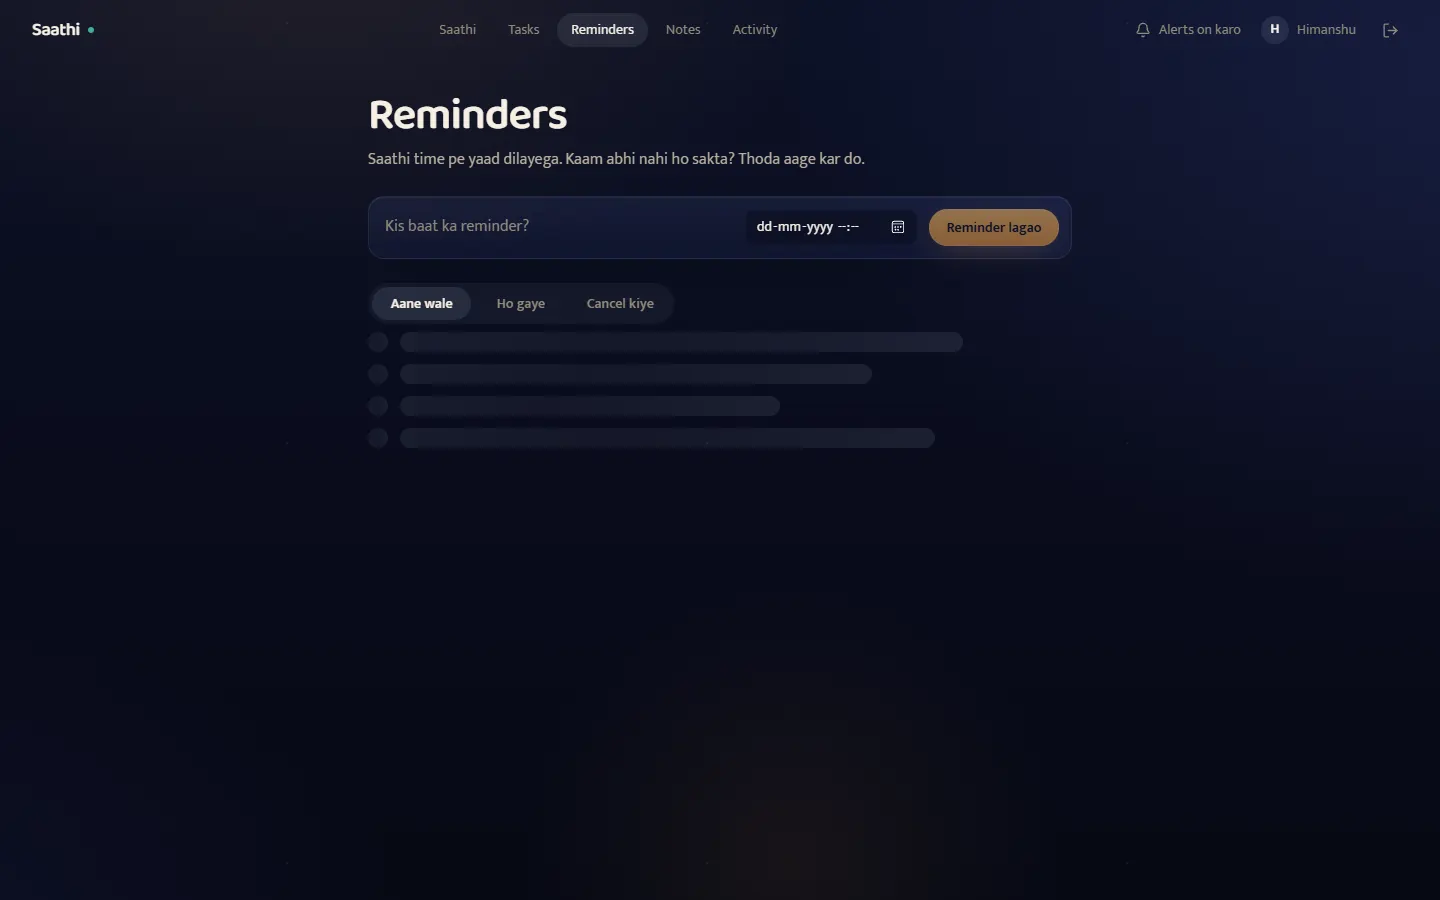
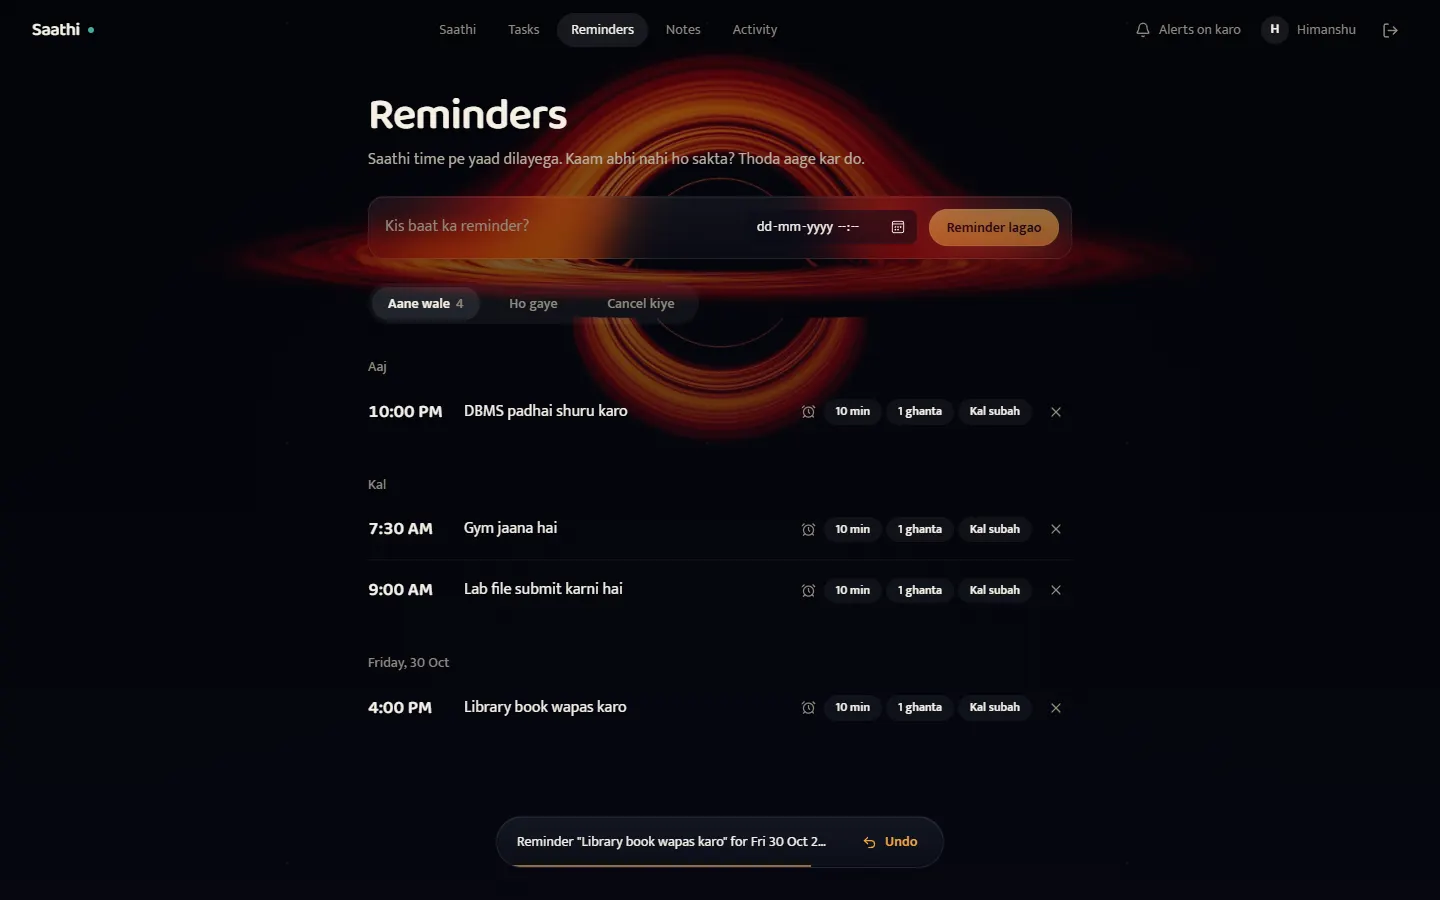
Reminders: NASA's black hole visualization as the background
- NASA Goddard / Jeremy Schnittman's 2019 accretion disk visualization
  (SVS 13326): the unlabelled 3840 px frame of the edge-on view, with
  the dark shadow, the bright ring in front and the disk's far side bent
  above and below by gravity (the Gargantua look, from a real physics
  simulation, nothing from the film)
- Placed high on a black canvas so the ring sits behind the title and the
  form while the list stays on black; centre crop for phones; WebP 52 KB
  desktop, 57 KB phone; lighter veil so it stays visible
- Credit in CREDITS.md, Settings and the README; noted that using NASA
  material does not mean NASA endorses the app
- 123 tests pass

diff --git a/client/src/app/AppShell.jsx b/client/src/app/AppShell.jsx
@@ -29,9 +29,10 @@ export const SCREENS = [
 ];
 const ALL = [...SCREENS.map((s) => s.id), 'settings'];
 
-// The space photo behind each screen (lib/photos.js has the credits). Reminders keeps the plain
-// night sky on purpose (Himanshu has another idea for it).
-const BACKDROPS = { home: 'westerlund2', tasks: 'antennae', notes: 'am0500', activity: 'andromeda', settings: 'carina' };
+// The space photo behind each screen (lib/photos.js has the credits). Reminders gets the black hole:
+// it is mostly black, so it sits under the lighter veil and stays visible above the list.
+const BACKDROPS = { home: 'westerlund2', tasks: 'antennae', reminders: 'blackhole', notes: 'am0500', activity: 'andromeda', settings: 'carina' };
+const SOFT_VEIL = ['notes', 'reminders'];
 
 const screenFromHash = () => {
   const id = location.hash.replace(/^#\/?/, '');
@@ -86,7 +87,7 @@ export function AppShell({ user: initialUser, onLogout }) {
               animate={{ opacity: 1, transition: { duration: 0.9 } }}
               exit={{ opacity: 0, transition: { duration: 0.6 } }}
             >
-              <SpaceBackdrop photo={BACKDROPS[screen]} className="absolute" strength={screen === 'notes' ? 'soft' : 'strong'} />
+              <SpaceBackdrop photo={BACKDROPS[screen]} className="absolute" strength={SOFT_VEIL.includes(screen) ? 'soft' : 'strong'} />
             </motion.div>
           </AnimatePresence>
           <CursorGlow />

diff --git a/client/src/lib/photos.js b/client/src/lib/photos.js
@@ -33,6 +33,13 @@ export const PHOTOS = {
     usedFor: 'Tasks',
     match: 'exact',
   },
+  blackhole: {
+    title: 'Black hole accretion disk visualization (2019, frame 1 of the 360 orbit, placed on a wider black background)',
+    credit: "NASA's Goddard Space Flight Center / Jeremy Schnittman",
+    source: 'https://svs.gsfc.nasa.gov/13326',
+    usedFor: 'Reminders',
+    match: 'exact',
+  },
   am0500: {
     title: 'AM 0500-620',
     credit: 'NASA, ESA, the Hubble Heritage Team (STScI/AURA)-ESA/Hubble Collaboration and W. Keel (University of Alabama, Tuscaloosa)',

diff --git a/CLAUDE.md b/CLAUDE.md
@@ -42,7 +42,7 @@ Everything below is committed and pushed to GitHub (private repo `harisharma8118
 - **Auth:** `AuthScreen.jsx` (login/signup, eye toggle in password fields, "Password bhool gaye?" link, shared `AuthShell` and `Field`) and `PasswordScreens.jsx` (forgot and reset screens). Routing by hash: `#login`, `#signup`, `#forgot`, `#reset=<token>`. Blur/scale page transitions with `transitionEnd: { filter: 'none' }` (a leftover filter breaks backdrop blur).
 - **Home:** the 3D face (`Face3D.jsx`, React Three Fiber: glowing gold orb shader, breathing, blinking, eyes follow the cursor, expressions and mood colours; `HeroFace.jsx` shows the 2D SVG face `Face.jsx` while loading, on errors, without WebGL or with reduced motion), cursor glow, chat with streaming, receipts with Undo, Confirm/Cancel, typing hints; the glass Today panel with quick add, countdowns, pending, habits with streaks, reminders and the day plan; toasts with snooze; live updates; a phone layout with Chat / Aaj tabs. Only one 3D canvas is on screen at a time.
 - **App shell and screens (21 Oct):** `src/app/AppShell.jsx` wraps every logged-in screen: top nav on desktop, a 5-tab bottom bar on phones (Saathi, Tasks, Reminders, Notes, Activity; Settings via the avatar button), screens picked by `#/tasks`, `#/notes`, `#/reminders`, `#/activity`, `#/settings` (Home = no hash). The shell owns the ONE live-updates stream; screens refresh with `useLiveRefresh(load)` from `src/app/live.js` (debounced; `{ on: 'notify' }` for nudges/recaps). Notification toasts and the 10-second **Undo bar** (`components/UndoToast.jsx`, shown for your own changes from the `changed` events; Saathi's changes keep their receipts in chat) are global. Shared parts in `components/ScreenParts.jsx` (ScreenFrame, Tabs, EmptyState with the face, ErrorState, ListSkeleton, GroupTitle). Screens: `TasksScreen` (quick add, search, Open grouped Pending/Aaj/Kal/Is hafte/Baad mein/Bina date, tap a title to edit or delete, Completed grouped by day with `ProgressChart.jsx`: 14-day columns in `#21A895`, validated with the dataviz skill's palette checker, hover tooltips, a hidden table for screen readers; backend sort `completed`), `NotesScreen` (composer, search, pinned first, edit in place, pin, delete), `RemindersScreen` (add with time, Aane wale / Ho gaye / Cancel kiye, snooze 10 min / 1 ghanta / Kal subah, cancel), `ActivityScreen` (timeline per day, who did it, Undo within 10 minutes), `SettingsScreen` (name, timezone, what Saathi remembers with add/forget, notifications, logout). Home now lives inside the shell (phone toggle Chat / Aaj at the top).
-- **Space photo backgrounds (21 Oct):** every screen except Reminders (Himanshu has another idea for it) has a real space photo behind it: `components/SpaceBackdrop.jsx` (phone/desktop WebP via `<picture>`, fade in, 90 s slow zoom off with reduced motion, dark veil 'strong'/'soft', `fadeEdges` for landing sections). Which photo goes where, with credits and exact/similar, is in `src/lib/photos.js` and `CREDITS.md` (also shown in Settings). Also: empty and error states (photo halo behind the face), loading and offline screens, landing intro / "teen kadam" / final section / Study plan and Voice panels, toasts and the evening recap (earth-night), and `WarpFlash.jsx` (star-trails flash on page changes). HD originals in `design/bg-hd/` (gitignored); `node scripts/make-backgrounds.mjs [names]` in `client/` makes the WebP files (each under 300 KB). Himanshu's reference screenshots are in `design/reference-photos/` (not committed).
+- **Space photo backgrounds (21 Oct; Reminders added 26 Oct):** every screen has a real space photo behind it. Reminders = `blackhole`: NASA Goddard / Jeremy Schnittman 2019 accretion-disk visualization (SVS 13326, unlabelled 3840 px frame 1 of the 360 orbit; the frames are 8-bit palette BMPs that sharp cannot read, decoded by hand), placed high on a black 3840x2400 canvas so the list below stays on black, centre crop for phones, quality 90 (about 55 KB), soft veil: `components/SpaceBackdrop.jsx` (phone/desktop WebP via `<picture>`, fade in, 90 s slow zoom off with reduced motion, dark veil 'strong'/'soft', `fadeEdges` for landing sections). Which photo goes where, with credits and exact/similar, is in `src/lib/photos.js` and `CREDITS.md` (also shown in Settings). Also: empty and error states (photo halo behind the face), loading and offline screens, landing intro / "teen kadam" / final section / Study plan and Voice panels, toasts and the evening recap (earth-night), and `WarpFlash.jsx` (star-trails flash on page changes). HD originals in `design/bg-hd/` (gitignored); `node scripts/make-backgrounds.mjs [names]` in `client/` makes the WebP files (each under 300 KB). Himanshu's reference screenshots are in `design/reference-photos/` (not committed).
 - **Step 6: voice and languages (22 Oct).**
   - **Languages:** `server/src/utils/language.js` (hinglish default, en, hi, mwr = Marwari beta, ta, bn; each with a prompt description). `User.language` (enum), returned by `publicUser`, set with `PATCH /api/auth/me { language }` (400 for unknown ones; the 30 s user cache is cleared). The persona tells Saathi to reply in whatever language and script the user writes or speaks in, with the same friend personality in every language; the context has "Preferred language (from Settings)" for messages Saathi starts itself and unclear cases. Greeting and proactive messages (reminder lines, nudges, recap) add `WRITE_IN_PREFERRED` ("in that language's own script"; without it the model wrote Tamil in Latin letters). The greeting cache key includes the language.
   - **Voice flag:** `POST /api/agent/chat { voice: true }` adds "your reply will be read aloud: one or two short spoken sentences, no lists, emoji or markdown, numbers as people say them" to the context. Live check: a Tamil voice message created the task and reminder in Tamil and answered in one short Tamil sentence.

diff --git a/CREDITS.md b/CREDITS.md
@@ -7,7 +7,7 @@ and lives in `client/public/bg/` as `<name>-desktop.webp` (1920 px) and `<name>-
 
 Licences:
 - ESA/Hubble and ESA images: [Creative Commons Attribution 4.0](https://esahubble.org/copyright/), free to use with the credit shown.
-- NASA images: public domain, not copyrighted ([NASA media guidelines](https://www.nasa.gov/nasa-brand-center/images-and-media/)); credit "NASA".
+- NASA images and visualizations: generally not copyrighted ([NASA media guidelines](https://www.nasa.gov/nasa-brand-center/images-and-media/)); the credit line given by NASA is shown. Using them does not mean NASA endorses Saathi.
 - Pexels photos: the [Pexels licence](https://www.pexels.com/license/), free to use, credit given to the photographer anyway.
 
 "Exact" means the same photo as Himanshu's reference screenshot. "Similar" means the exact original
@@ -21,6 +21,7 @@ Git, too large); the app only loads the small WebP files.
 | `pillars` | Exact | New view of the Pillars of Creation (visible) | NASA, ESA/Hubble and the Hubble Heritage Team | [esahubble.org/images/heic1501a](https://esahubble.org/images/heic1501a/) | Login and signup |
 | `mysticmountain` | Exact | Hubble captures view of "Mystic Mountain" | NASA, ESA, M. Livio and the Hubble 20th Anniversary Team (STScI) | [esahubble.org/images/heic1007a](https://esahubble.org/images/heic1007a/) | Password bhool gaye, reset |
 | `antennae` | Exact | A Galactic spectacle (Antennae galaxies: Chandra X-ray, Hubble optical, Spitzer infrared) | NASA, ESA, SAO, CXC, JPL-Caltech, and STScI. Acknowledgment: G. Fabbiano and Z. Wang (Harvard-Smithsonian CfA, USA), and B. Whitmore (STScI) | [esahubble.org/images/opo1025a](https://esahubble.org/images/opo1025a/) (also [chandra.harvard.edu/photo/2010/antennae](https://chandra.harvard.edu/photo/2010/antennae/)) | Tasks |
+| `blackhole` | Chosen | Black hole accretion disk visualization (2019), frame 1 of the 360-degree orbit, unlabelled 3840 x 3840 frame, placed on a wider black background | NASA's Goddard Space Flight Center / Jeremy Schnittman | [svs.gsfc.nasa.gov/13326](https://svs.gsfc.nasa.gov/13326) | Reminders |
 | `am0500` | Exact | AM 0500-620 | NASA, ESA, the Hubble Heritage Team (STScI/AURA)-ESA/Hubble Collaboration and W. Keel (University of Alabama, Tuscaloosa) | [esahubble.org/images/heic0810bv](https://esahubble.org/images/heic0810bv/) | Notes |
 | `andromeda` | Similar | Cool Andromeda (Herschel PACS and SPIRE, far infrared), turned 40 degrees and cropped to landscape like the reference | ESA/Herschel/PACS & SPIRE Consortium, O. Krause, HSC, H. Linz | [sci.esa.int/web/herschel/-/57934-cool-andromeda](https://sci.esa.int/web/herschel/-/57934-cool-andromeda) | Activity |
 | `carina` | Exact | Star birth in the extreme (Carina Nebula) | NASA, ESA, N. Smith (University of California, Berkeley), and The Hubble Heritage Team (STScI/AURA) | [esahubble.org/images/heic0707a](https://esahubble.org/images/heic0707a/) | Settings |
@@ -35,4 +36,4 @@ Git, too large); the app only loads the small WebP files.
 | `earth-horizon` | Similar | Earth's horizon at sunset, from the International Space Station (iss068e022267) | NASA | [images.nasa.gov/details/iss068e022267](https://images.nasa.gov/details/iss068e022267) | Last landing section, behind "Account banao" |
 | `earth-night` | Similar | The Nile and its delta at night, from the International Space Station (iss030e112822) | NASA | [images.nasa.gov/details/iss030e112822](https://images.nasa.gov/details/iss030e112822) | Notifications and the evening recap |
 
-Reminders has no photo on purpose (Himanshu has another idea for that screen).
+Reminders uses the black hole (chosen by Himanshu: "like Gargantua"). It is a scientific visualization by NASA, not an image from any film.

diff --git a/README.md b/README.md
@@ -54,7 +54,7 @@ Saathi is a chat and voice assistant connected to your own data. The AI model (G
 | ![Tasks grouped by when they are due](docs/screenshots/tasks.webp) | ![Completed tasks with the 14-day progress chart](docs/screenshots/tasks-completed.webp) |
 | Tasks grouped by when they are due | Completed tasks and the 14-day progress chart |
 | ![Reminders with snooze](docs/screenshots/reminders.webp) | ![Activity timeline with Undo](docs/screenshots/activity.webp) |
-| Reminders with snooze and cancel | Every change, yours or Saathi's, with Undo |
+| Reminders with snooze and cancel, over NASA's black hole visualization | Every change, yours or Saathi's, with Undo |
 | ![Notes with pinned notes first](docs/screenshots/notes.webp) | ![Settings: language picker](docs/screenshots/settings-language.webp) |
 | Notes | Settings: language, profile and what Saathi remembers |
 
